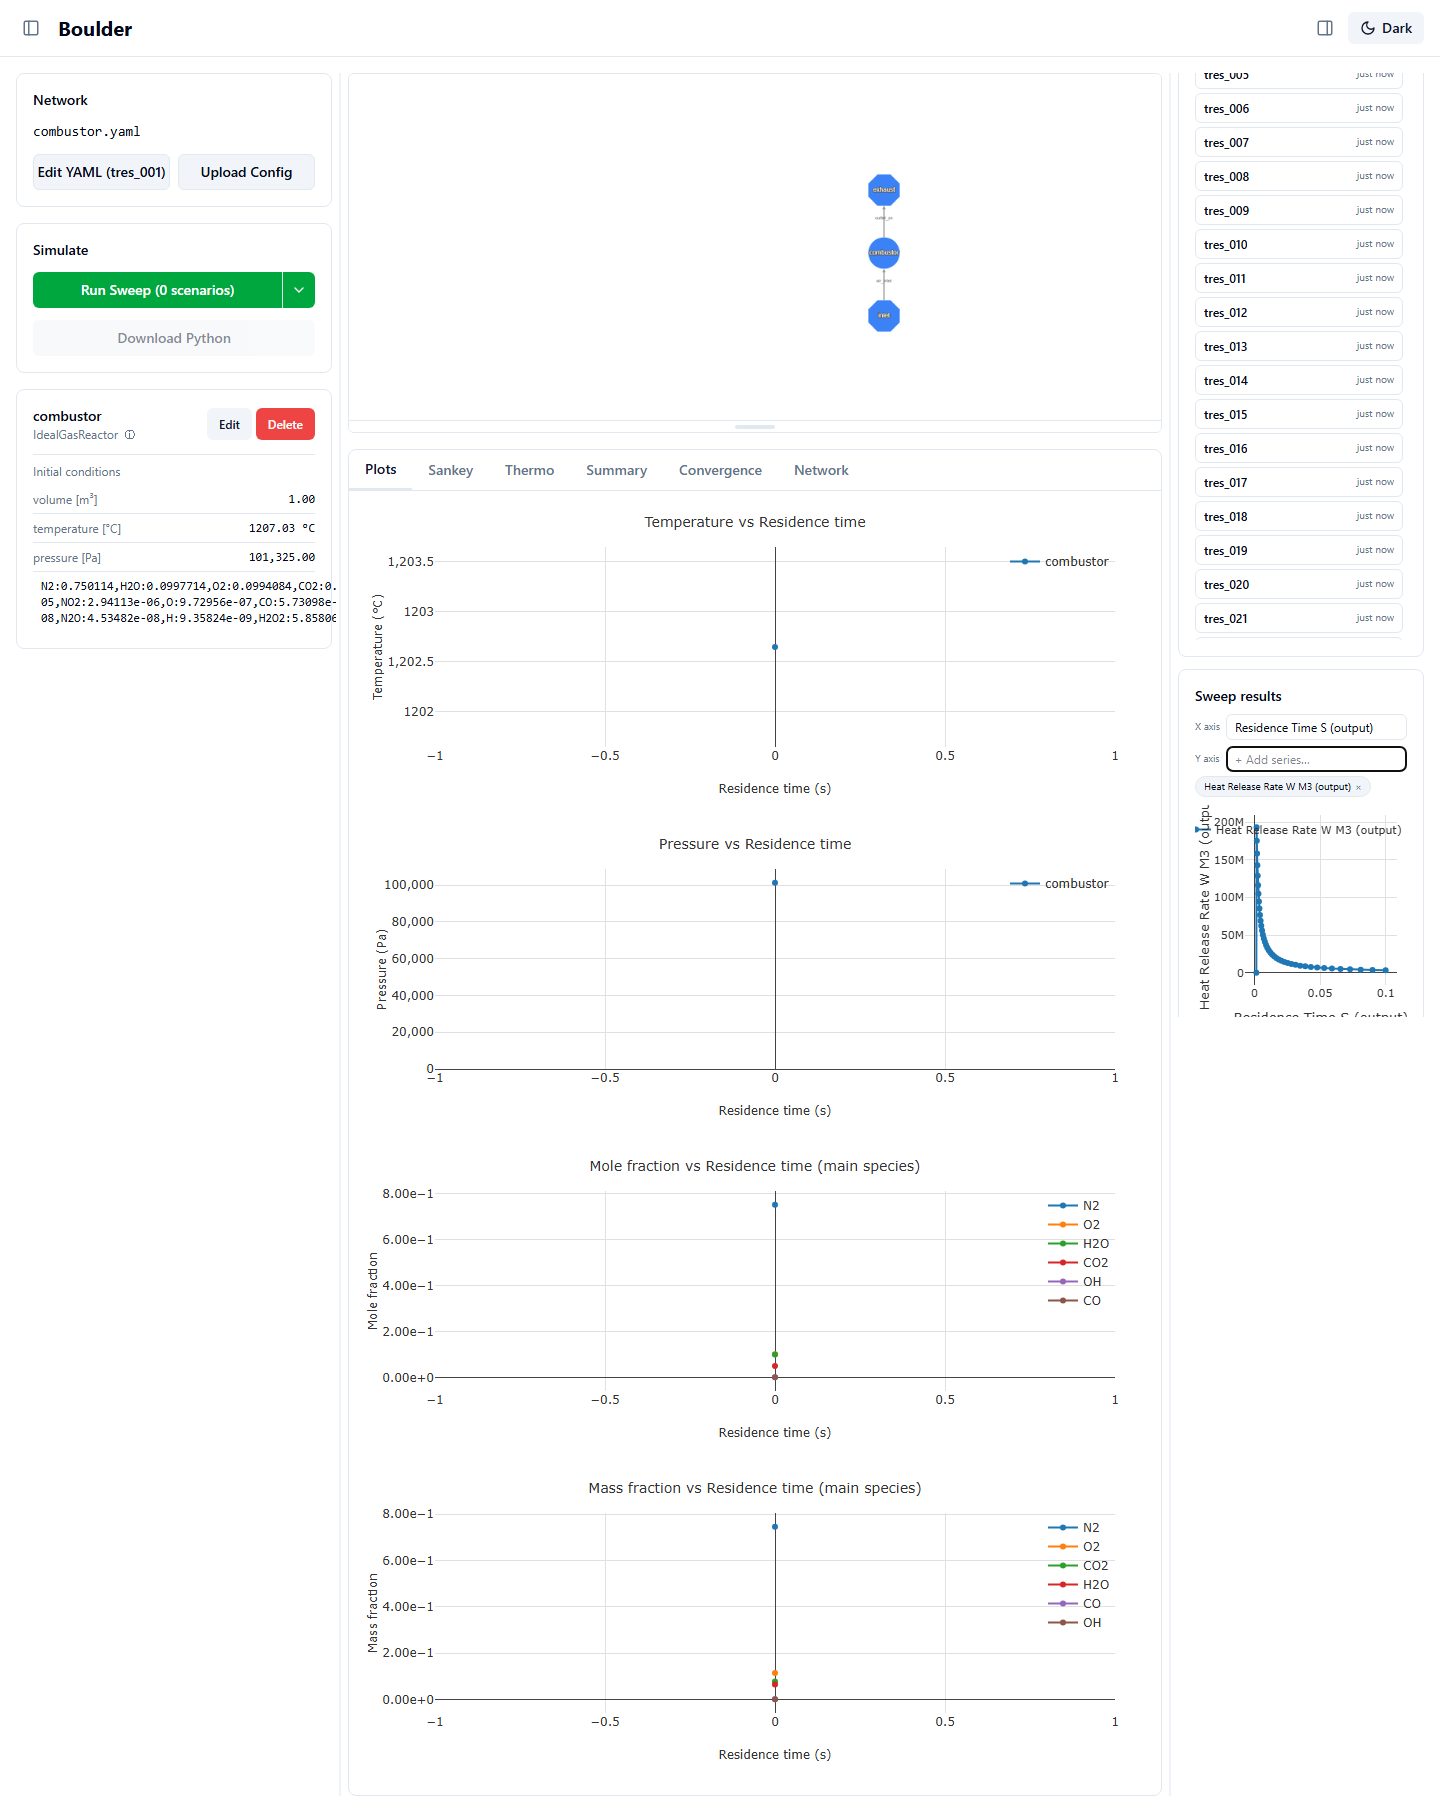
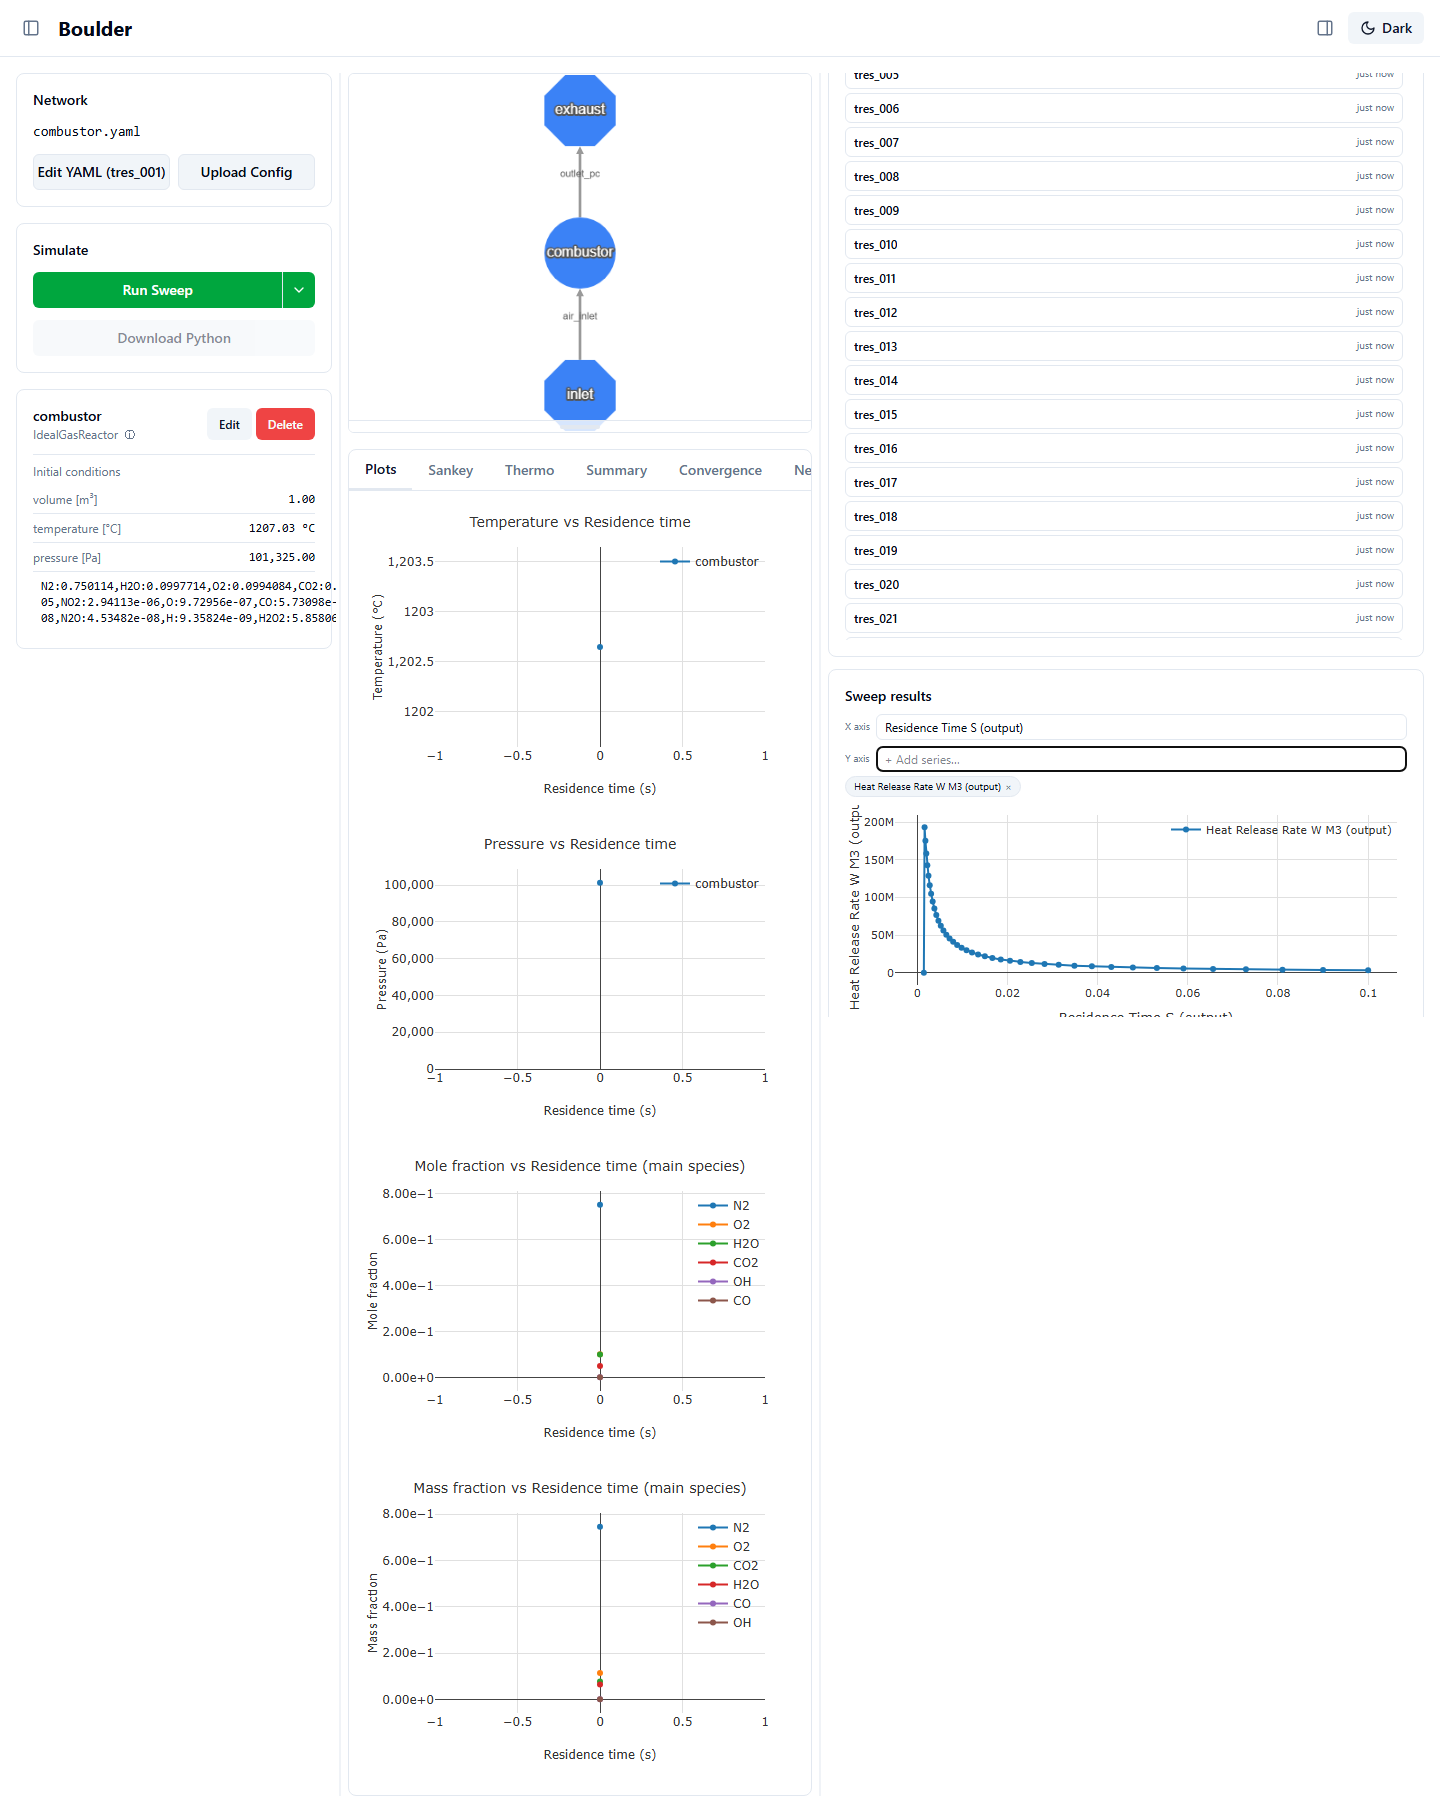
docs: widen the Scenario pane before a sweep-mode screenshot capture
combustor.png and continuous_reactor.png regenerated after #181/#182
landed (parks4/boulder 0.11.4) had their Sweep Results chart and X/Y axis
pickers crammed into Boulder's default 250px right-pane width -- much
smaller than every sweep screenshot before them. That width was previously
set by hand before capture (see parks4/boulder_examples@40878a2's message,
"widen right pane... this Playwright browser profile's localStorage only")
but never made it into capture_screenshot.py itself, so a later recapture
had no way to reproduce it.

scripts/capture_screenshot.py: new _widen_scenario_pane(), called for
--mode sweep only, presets localStorage["boulder-layout"].rightWidth = 600
via page.add_init_script() before navigation (must run before the app's
first read of that key). 600, not wider: layoutStore.ts's own clampWidth
caps the right pane at MAX_WIDTH = 600 on load regardless of what's
stored, so that's the actual ceiling. Documented in both this script's
module docstring and capture_all_screenshots.sh's header, so a future
sweep example doesn't have to rediscover it.

Widening the pane exposed a second bug: the always-visible topology canvas
above the tab strip (Cytoscape) came out blank at 600px. It renders fine on
initial load; the Scenario pane mounting as a brand-new third column the
instant the sweep finishes, immediately followed by the axis-picker
interactions, stacks up more rapid container-size changes than Cytoscape's
[…]

diff --git a/scripts/capture_screenshot.py b/scripts/capture_screenshot.py
@@ -18,7 +18,17 @@ Modes (--mode):
     "Run Sweep" mode, wait for it to finish, and screenshot the page (the
     Sweep Results chart renders in the right-hand Scenario pane). Use
     --sweep-series to pick specific series (comma-separated) in the sweep
-    plot's Y-axis picker instead of leaving the default selection.
+    plot's Y-axis picker instead of leaving the default selection. The right
+    (Scenario) pane is widened before capture -- see ``_widen_scenario_pane``
+    -- so the chart and its axis pickers aren't cramped into the default
+    250px pane width; this is the one guideline every sweep-mode screenshot
+    in this repo should follow, so a future example doesn't have to
+    rediscover it. Stays on the default Plots tab deliberately: a
+    ``sweep.runner``-produced scenario (both current sweep examples) only
+    ever populates ``reactors_series``/``times`` (see
+    ``boulder.payload_store.gui_payload_from_solution_array``) -- Thermo,
+    Summary and Sankey all render their own "no data" placeholder for it, so
+    switching off Plots would trade a tall screenshot for an empty one.
 """
 
 from __future__ import annotations
@@ -58,6 +68,50 @@ def _select_node(page: Page, node_id: str | None) -> None:
     page.wait_for_timeout(500)
 
 
+def _ensure_network_diagram_rendered(page: Page) -> None:
+    """Force Cytoscape to recompute its canvas size and redraw before capture.
+
+    The always-visible topology canvas above the tab strip lives right where
+    a sweep-mode capture stacks up several rapid layout changes -- the
+    Scenario pane mounting as a brand-new third column the instant the sweep
+    finishes, then the Sweep Results axis pickers being driven programmatically
+    right after. Cytoscape's own ResizeObserver-driven redraw does not
+    reliably keep up with that in a headless capture: the canvas has been
+    observed to come out blank, sized to whatever it was mid-flurry. Calling
+    ``resize()`` then ``fit()`` on the exposed ``window.__boulderCy`` instance
+    recomputes the container size and redraws unconditionally, so the
+    screenshot always shows the real topology regardless of what raced during
+    layout. Cheap and harmless to call for every mode, not just sweep.
+    """
+    page.evaluate("() => { const cy = window.__boulderCy; if (cy) { cy.resize(); cy.fit(); } }")
+    page.wait_for_timeout(300)
+
+
+def _widen_scenario_pane(page: Page) -> None:
+    """Preset the right (Scenario) pane wide before a sweep-mode capture.
+
+    Boulder persists pane widths in ``localStorage["boulder-layout"]``
+    (``{leftWidth, rightWidth, ...}``, see ``frontend/src/stores/
+    layoutStore.ts``), defaulting the right pane to 250px -- comfortable for
+    the plain Scenarios list, but too narrow for the Sweep Results chart and
+    its X/Y axis pickers once a sweep populates it (the axis dropdowns wrap
+    and the plot is squeezed to a sliver). Setting it up front (this
+    Playwright browser profile's own storage only -- never touched in the
+    app/repo) reproduces the wider layout used for every sweep screenshot
+    before it went undocumented and got lost to a narrower recapture.
+
+    600px, not wider: ``layoutStore.ts``'s own ``clampWidth`` caps the right
+    pane at ``MAX_WIDTH = 600`` on load regardless of what's stored here, so
+    600 is the actual ceiling -- a larger value would just get silently
+    clamped back down.
+
+    Must run *before* the app's first paint reads the key, hence
+    ``add_init_script`` (runs on every navigation in this page, ahead of the
+    page's own scripts) rather than a post-load ``page.evaluate``.
+    """
+    page.add_init_script("window.localStorage.setItem('boulder-layout', JSON.stringify({rightWidth: 600}))")
+
+
 def _run_sweep(page: Page, sweep_series: list[str], sweep_x: str | None, skip_run: bool) -> None:
     """Switch the split button to "Run Sweep", run it, and wait for results.
 
@@ -86,20 +140,18 @@ def _run_sweep(page: Page, sweep_series: list[str], sweep_x: str | None, skip_ru
     if sweep_x:
         _pick(page, "x-axis-select", sweep_x)
 
-    if not sweep_series:
-        return
+    if sweep_series:
+        # Replace the auto-selected default family with exactly the requested
+        # series: drop every active chip, then add the requested ones in order.
+        while True:
+            remove_buttons = page.locator("[data-testid^='remove-series-']")
+            if remove_buttons.count() == 0:
+                break
+            remove_buttons.first.click()
+            page.wait_for_timeout(150)
 
-    # Replace the auto-selected default family with exactly the requested
-    # series: drop every active chip, then add the requested ones in order.
-    while True:
-        remove_buttons = page.locator("[data-testid^='remove-series-']")
-        if remove_buttons.count() == 0:
-            break
-        remove_buttons.first.click()
-        page.wait_for_timeout(150)
-
-    for series_label in sweep_series:
-        _pick(page, "y-axis-add-select", series_label)
+        for series_label in sweep_series:
+            _pick(page, "y-axis-add-select", series_label)
 
 
 def _pick(page: Page, test_id: str, label: str) -> None:
@@ -146,6 +198,8 @@ def main() -> int:
     with sync_playwright() as p:
         browser = p.chromium.launch()
         page = browser.new_page(viewport={"width": 1440, "height": 1024})
+        if args.mode == "sweep":
+            _widen_scenario_pane(page)
         page.goto(args.url, wait_until="networkidle")
 
         if args.mode == "sweep":
@@ -171,6 +225,7 @@ def main() -> int:
                 page.get_by_role("button", name="Network").click()
                 page.wait_for_timeout(1500)
 
+        _ensure_network_diagram_rendered(page)
         page.screenshot(path=args.output_png, full_page=True)
         browser.close()
     print(f"wrote {args.output_png}")
